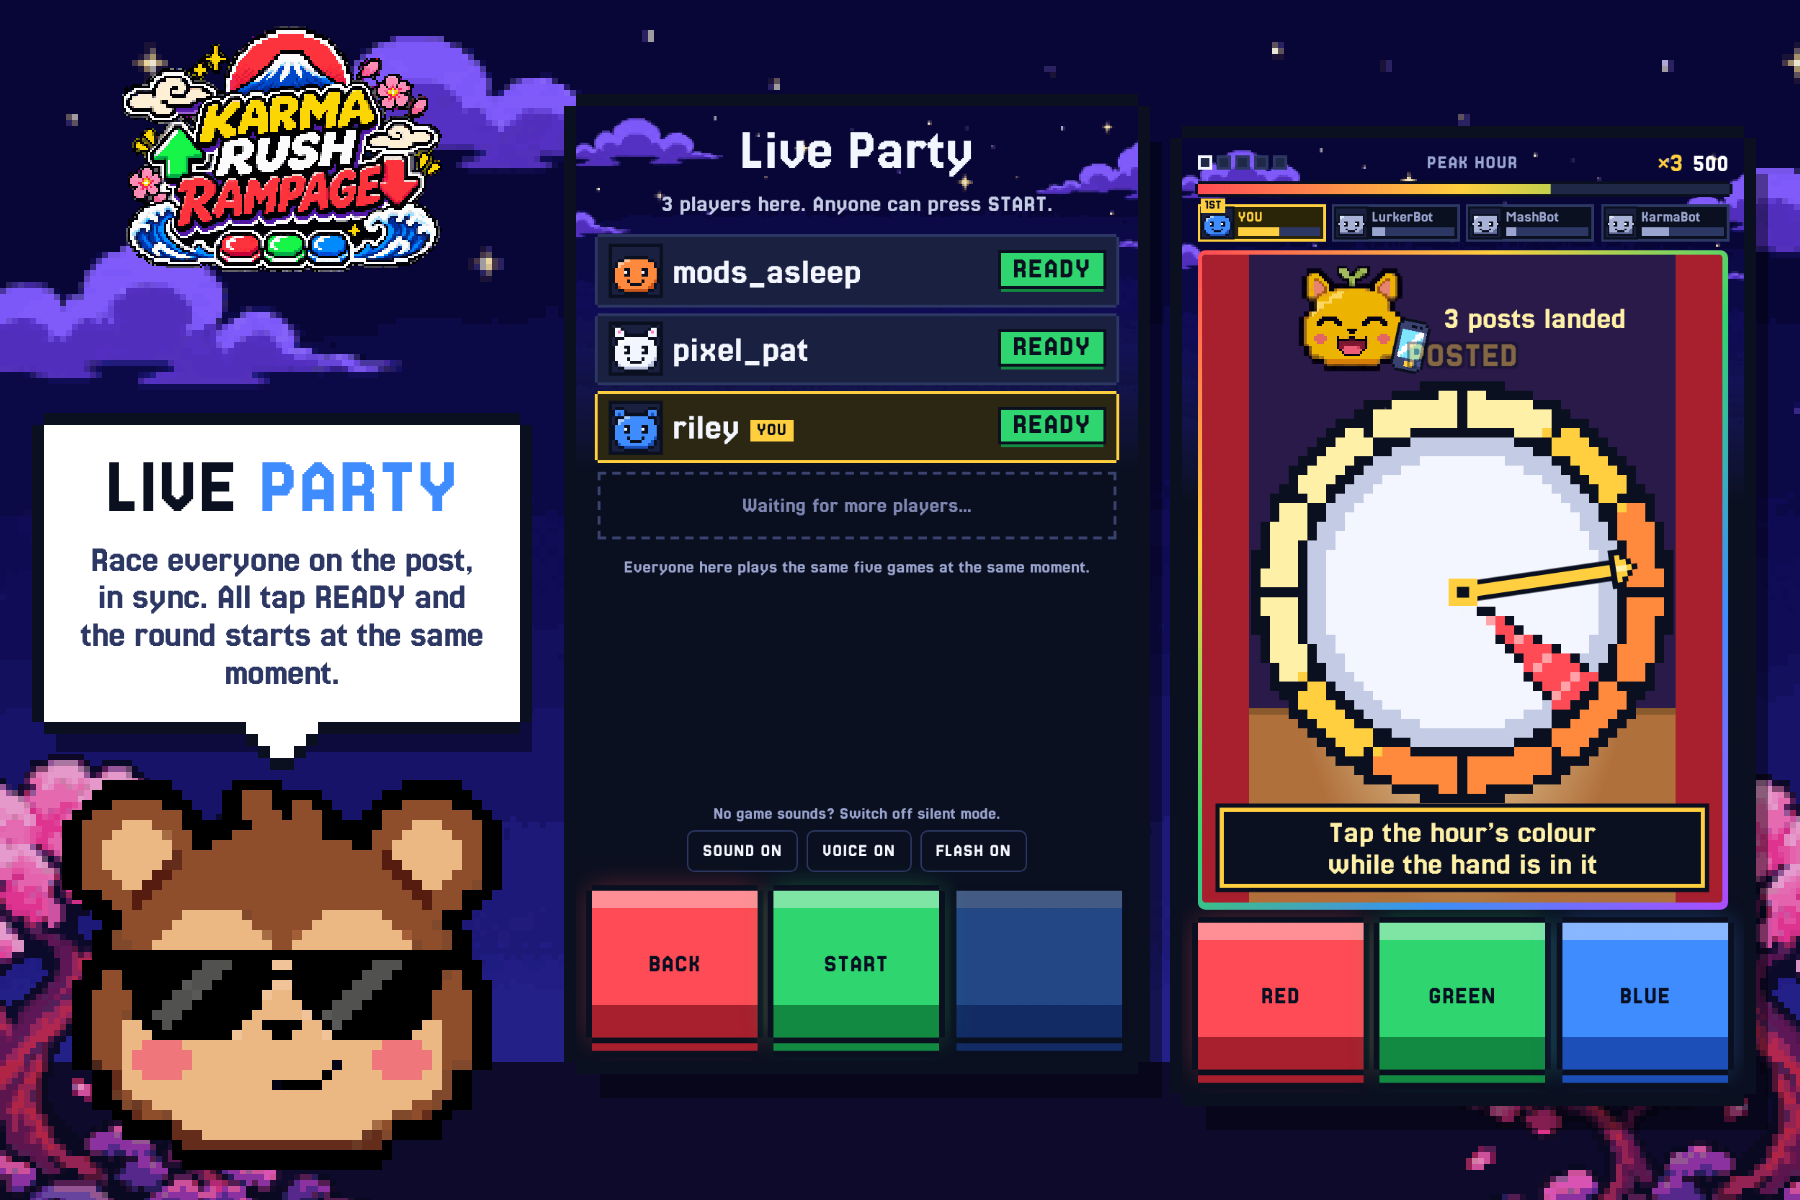
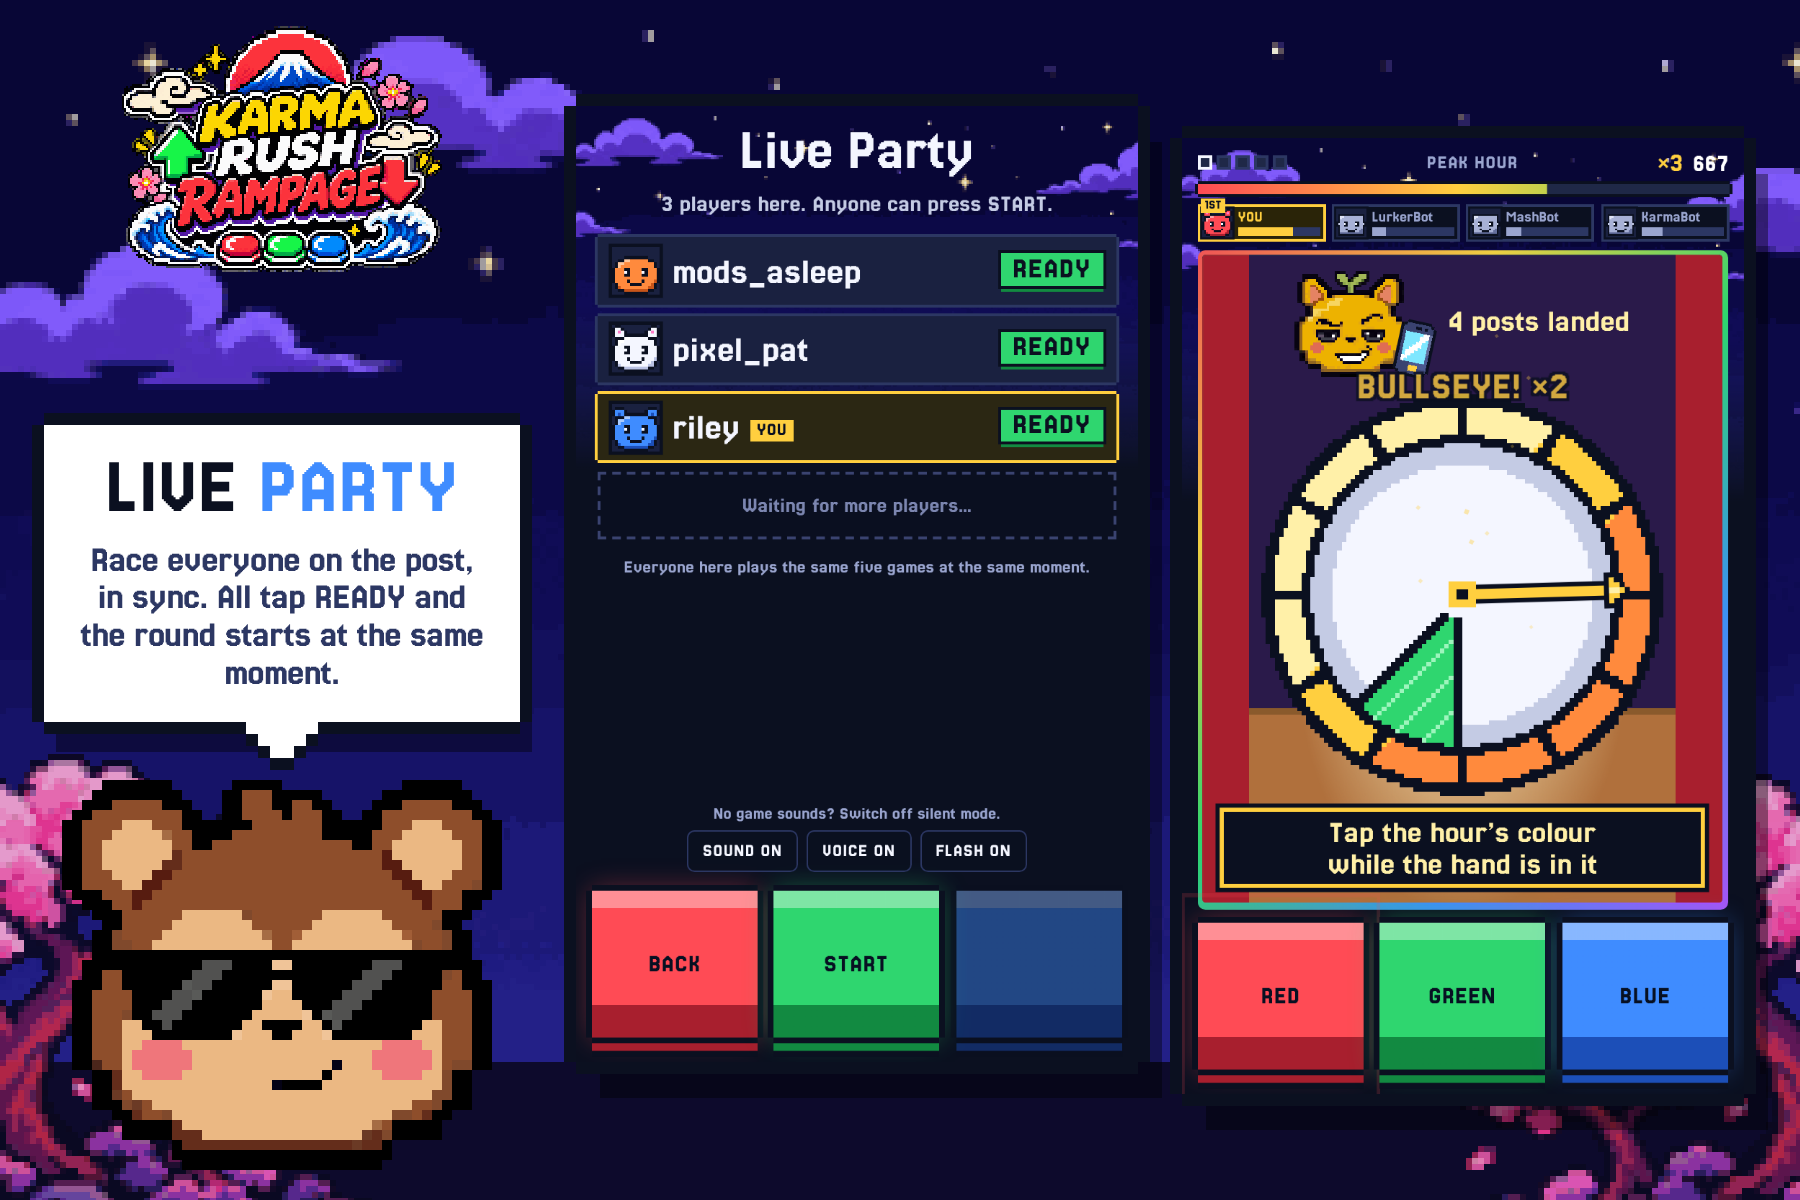
Peak Hour: clock and cat drawn at matching pixel sizes
The clock is drawn at twice the resolution (same shapes, pixels half the
size) and the cat is half as big again, so the two no longer look like they
come from different games. Short screens get a slightly smaller cat and
clock so the rule stays on screen.

Claude-Session: https://claude.ai/code/session_01S8p8vF8rwDZGPiwSDYv6n2

Changed region(s): [[0.6844, 0.2158, 0.9333, 0.6783], [0.6533, 0.185, 0.6844, 0.2158]]

diff --git a/src/client/games/peak.ts b/src/client/games/peak.ts
@@ -1,14 +1,23 @@
 import './peak.css';
 import { actor, COLOR, clamp1000, defineSprite, h, hasSprite, pulse, randBtn, setSprite, sprite, type ActorMood, type Btn, type GameFactory } from './common';
 
-// The clock, in pixels: a 45-pixel face with a gold rim and a mark at every hour.
+// The clock: a face 45 units across with a gold rim and a mark at every hour, drawn at
+// FINE pixels to the unit so its pixels are about the size of the cat's beside it.
 const S = 45;
 const C = 22;
+const FINE = 2;
 const FACE_R = 16.9; // the face inside the rim
 /** Where a pixel is on the dial, in hours: 0 at twelve o'clock, clockwise. */
 const hourAt = (x: number, y: number) => ((Math.atan2(x - C, C - y) / (2 * Math.PI)) * 12 + 12) % 12;
 const grid = (cell: (x: number, y: number, d: number, hr: number) => string) =>
-  Array.from({ length: S }, (_, y) => Array.from({ length: S }, (_, x) => cell(x, y, Math.hypot(x - C, y - C), hourAt(x, y))).join(''));
+  Array.from({ length: S * FINE }, (_, row) =>
+    Array.from({ length: S * FINE }, (_, col) => {
+      // The middle of this pixel, in clock units.
+      const x = (col + 0.5) / FINE - 0.5;
+      const y = (row + 0.5) / FINE - 0.5;
+      return cell(x, y, Math.hypot(x - C, y - C), hourAt(x, y));
+    }).join(''),
+  );
 
 defineSprite(
   'peak-face',
@@ -45,14 +54,14 @@ function wedge(startQ: number, widthQ: number): string {
         if (d > FACE_R || d < 2.6 || into > width) return '.';
         // A dark edge along both sides, and a stripe of light for texture.
         const side = Math.min(into, width - into) * ((2 * Math.PI * d) / 12);
-        return side < (width < 1.1 ? 0.55 : 0.8) ? 'k' : (x + y) % 5 === 0 ? 'L' : 'A';
+        return side < (width < 1.1 ? 0.55 : 0.8) ? 'k' : Math.round((x + y) * FINE) % 8 === 0 ? 'L' : 'A';
       }),
     );
   }
   return name;
 }
 
-const PX = 0.34; // one clock pixel, in em
+const PX = 0.34 / FINE; // one clock pixel, in em
 
 // One clock, one hand, one coloured slice. The hand sweeps round; the slice is the peak
 // hour. Its colour says which button, the hand says when. Nothing else moves.
@@ -97,9 +106,9 @@ export const create: GameFactory = ({ root, rng, level, duration, good, bad, fx 
   // online; the gold hand is the time now.
   const wrap = h('div', 'g-peak scene-stage');
   const top = h('div', 'top');
-  const cat = actor('op', { px: 0.24 });
+  const cat = actor('op', { px: 0.36 });
   const note = h('span', 'note');
-  top.append(cat.el, sprite('phone', { px: 0.16 }, 'phone'), note);
+  top.append(cat.el, sprite('phone', { px: 0.24 }, 'phone'), note);
   const clock = h('div', 'clock');
   const slice = sprite(wedge(0, baseQ), { tone: 'red', px: PX }, 'slice');
   const hand = h('b', 'hand');

diff --git a/src/client/games/peak.css b/src/client/games/peak.css
@@ -2,10 +2,10 @@
    Cat and the tally up top, the rule at the bottom next to the buttons. */
 .g-peak { justify-content: space-between !important; gap: 0.3em !important; padding: 0.4em 0.8em 0.7em !important; overflow: hidden; }
 .g-peak .top { flex: none; display: flex; align-items: center; justify-content: center; gap: 0.4em; color: #fff0a8; }
-.g-peak .top .phone { margin-left: -1em; align-self: flex-end; transform: rotate(12deg); }
+.g-peak .top .phone { margin-left: -1.4em; align-self: flex-end; transform: rotate(12deg); }
 .g-peak .note { white-space: nowrap; }
 
-/* The clock: face, slice and hand share one centre. Sizes are in clock pixels (0.34em). */
+/* The clock: face, slice and hand share one centre. Sizes are in clock units (0.34em). */
 .g-peak .clock { position: relative; flex: none; width: 15.3em; height: 15.3em; }
 .g-peak .clock > .px { position: absolute; left: 0; top: 0; }
 /* The hand: a gold needle from the hub to the edge of the face, turning about the hub. */
@@ -21,4 +21,10 @@
 /* Tall stages (a phone held upright): the clock can be bigger. */
 @container (min-height: 560px) {
   .g-peak .clock { font-size: 1.12em; }
+}
+/* Short stages (a small phone, a wide desktop window): a smaller cat and a slightly smaller
+   clock, so the rule at the bottom is never pushed off. */
+@container (max-height: 559px) {
+  .g-peak .top .actor, .g-peak .top .phone { font-size: 0.7em; }
+  .g-peak .clock { font-size: 0.95em; }
 }

diff --git a/src/client/main.ts b/src/client/main.ts
@@ -69,7 +69,7 @@ function setPads(labels: [string, string, string], actions?: ((() => void) | nul
 
 const held = [false, false, false];
 /** Shown on the menu so a tester can tell which build they are looking at. */
-const BUILD = 75;
+const BUILD = 76;
 let dayLine = '';
 /** The menu's status line, with the audio state so "no sound" can be told apart by cause. */
 function paintStatus() {
